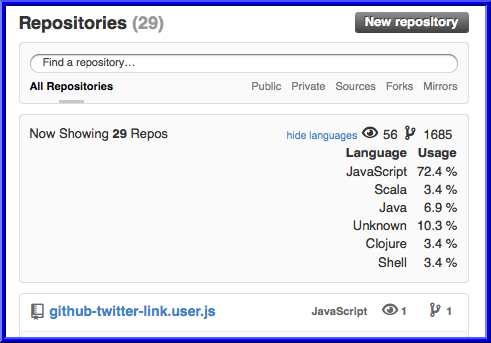
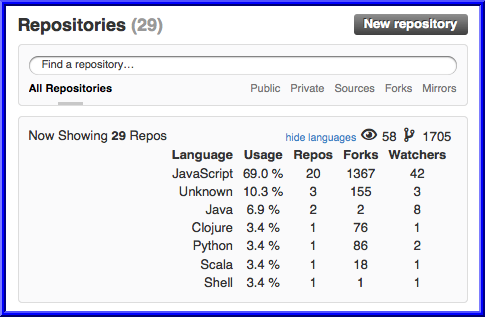
showing repo/watcher/fork counts in language breakdown. sorting language breakdown by most used, then by name.

diff --git a/github-repo-filter-info.user.js b/github-repo-filter-info.user.js
@@ -8,10 +8,10 @@
 // @icon           http://skratchdot.com/favicon.ico
 // @downloadURL    https://github.com/skratchdot/github-repo-filter-info.user.js/raw/master/github-repo-filter-info.user.js
 // @updateURL      https://github.com/skratchdot/github-repo-filter-info.user.js/raw/master/github-repo-filter-info.user.js
-// @version        1.1
+// @version        1.2
 // ==/UserScript==
 /*global jQuery */
-/*jslint browser: true, unparam: true */
+/*jslint browser: true, unparam: true, plusplus: true */
 
 var main = function () {
 	'use strict';
@@ -36,23 +36,33 @@ var main = function () {
 
 		// show filter info (after delay)
 		SKRATCHDOT.onRepoFilterTimeout = window.setTimeout(function () {
-			var total = 0, forks = 0, watchers = 0, languages = {}, language = '';
+			var i = 0, total = 0, forks = 0, watchers = 0,
+				languageHash = {}, languageArray = [], languageName = '', language = {};
 
 			// Calculate counts
 			jQuery('ul.repo_list > li:visible').each(function (i) {
 				var elem = jQuery(this),
-					language = '';
+					languageName = '',
+					forkCount = parseInt(elem.find('li.forks a').text(), 10),
+					watcherCount = parseInt(elem.find('li.watchers a').text(), 10);
 				total = total + 1;
-				forks += parseInt(elem.find('li.forks a').text(), 10);
-				watchers += parseInt(elem.find('li.watchers a').text(), 10);
-				language = elem.find('li:first').not('.forks, .watchers').text();
-				if (language === '') {
-					language = 'Unknown';
+				forks += forkCount;
+				watchers += watcherCount;
+				languageName = elem.find('li:first').not('.forks, .watchers').text();
+				if (languageName === '') {
+					languageName = 'Unknown';
 				}
-				if (!languages.hasOwnProperty(language)) {
-					languages[language] = 0;
+				if (!languageHash.hasOwnProperty(languageName)) {
+					languageHash[languageName] = {
+						name : languageName,
+						count : 0,
+						forks : 0,
+						watchers : 0
+					};
 				}
-				languages[language] = languages[language] + 1;
+				languageHash[languageName].count = languageHash[languageName].count + 1;
+				languageHash[languageName].forks = languageHash[languageName].forks + forkCount;
+				languageHash[languageName].watchers = languageHash[languageName].watchers + watcherCount;
 			});
 
 			// Display counts
@@ -60,14 +70,31 @@ var main = function () {
 			SKRATCHDOT.onRepoFilterDiv.find('.skratchdot-count-forks').text(forks);
 			SKRATCHDOT.onRepoFilterDiv.find('.skratchdot-count-watchers').text(watchers);
 			SKRATCHDOT.onRepoFilterDiv.find('table tbody').empty();
-			// Show languages
-			for (language in languages) {
-				if (languages.hasOwnProperty(language)) {
-					SKRATCHDOT.onRepoFilterDiv.find('table tbody').append('<tr><td align="right" style="padding-right:10px">' +
-						language + '</td><td align="right">' +
-						((languages[language] / total) * 100).toFixed(1) + ' %' +
-						'</td></tr>');
+
+			// Convert to array
+			for (languageName in languageHash) {
+				if (languageHash.hasOwnProperty(languageName)) {
+					languageArray.push(languageHash[languageName]);
 				}
+			}
+
+			// Sort Array
+			languageArray.sort(function (a, b) {
+				return b.count === a.count ? a.name > b.name : b.count > a.count;
+			});
+
+			// Show languages
+			for (i = 0; i < languageArray.length; i++) {
+				language = languageArray[i];
+				SKRATCHDOT.onRepoFilterDiv.find('table tbody').append('<tr>' +
+					'<td align="right" style="padding-right:10px">' + language.name + '</td>' +
+					'<td align="center" style="padding-right:10px">' +
+					((language.count / total) * 100).toFixed(1) + ' %' +
+					'</td>' +
+					'<td align="center" style="padding-right:10px">' + language.count + '</td>' +
+					'<td align="center" style="padding-right:10px">' + language.forks + '</td>' +
+					'<td align="center" style="padding-right:10px">' + language.watchers + '</td>' +
+					'</tr>');
 			}
 
 		}, delay);
@@ -87,15 +114,21 @@ var main = function () {
 				.css('text-align', 'center')
 				.append('<div class="left" />')
 				.append('<div class="right">' +
-					'<div>' +
 					'<a class="skratchdot-languages" href="javascript:void(0)" style="font-size:.8em;padding:5px;">show languages</a>' +
 					'<span class="mini-icon mini-icon-watchers"></span>' +
 					'<span class="skratchdot-count-watchers" style="padding:0px 5px;"></span>' +
 					'<span class="mini-icon mini-icon-fork"></span>' +
 					'<span class="skratchdot-count-forks" style="padding:0px 5px;"></span>' +
-					'</div><div style="float:right">' +
-					'<table style="display:none"><thead><tr><th style="padding-right:10px">Language</th><th>Usage</th></tr></thead><tbody></tbody></table>' +
-					'</div></div>')
+					'</div>')
+				.append('<div style="clear:both;float:right;">' +
+					'<table style="display:none"><thead><tr>' +
+					'<th style="padding-right:10px">Language</th>' +
+					'<th style="padding-right:10px">Usage</th>' +
+					'<th style="padding-right:10px">Repos</th>' +
+					'<th style="padding-right:10px">Forks</th>' +
+					'<th style="padding-right:10px">Watchers</th>' +
+					'</tr></thead><tbody></tbody></table>' +
+					'</div>')
 				.append('<div class="clear" />')
 		);
 
